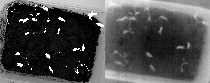
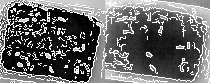
added edge brightening to pre-alignment steps. Alignment seems to work ok! But needs parameter adjustement for different test images. Think need box images for further meaningful progress.

diff --git a/image_preprocessing/preprocessor_functions.py b/image_preprocessing/preprocessor_functions.py
@@ -201,6 +201,7 @@ def downsample_resolution(origRef, origTest):
 
 def prep_images_for_align(origRef, origTest,
                           filterGreen=True, highlightGreen=True,
+                          edgeHighlight=True,
                           sharpenIR=True):
 
     '''Bundles all the transformations to apply to BGR (origRef), and IR (origTest)
@@ -215,20 +216,27 @@ def prep_images_for_align(origRef, origTest,
     sharpenIR: bool. If true, will sharpen origTest prior to alignment
     '''
 
+    # downsample higher res img to low res one
     # if try the other way around ("upsample"), ORB matching points are
-    # completely wrong).
+    # completely wrong).
     imgRef, imgTest = downsample_resolution(origRef.copy(), origTest.copy())
 
+    if sharpenIR:
+        print('sharpening IR...')
+        imgSharp = unsharp_mask(imgTest, kernel_size=(5, 5), sigma=1.0,
+                                amount=1.0, threshold=0)
+        # show_pics([imgTest, imgSharp])
+        imgTest = imgSharp
 
     if highlightGreen:
         print('highlighting BGR to make green real bright...')
         greenLwr = np.array([30, 80, 50])
         greenUpr = np.array([50, 255, 200])
-        highlight = (255, 255, 255)
+        highlight = (200, 200, 200)
         imgRef = hsv_set_to(imgRef, greenLwr, greenUpr, highlight)
 
     # filter BGR image to only keep the plants, (to be beneficial, assumes
-    # plants are lighter than background in the IR image)
+    # plants are lighter than background in the IR image)
     if filterGreen:
         print('filtering BGR to only keep green...')
         # hsv format green colour range
@@ -239,28 +247,46 @@ def prep_images_for_align(origRef, origTest,
         greenUpr = np.array([50, 255, 200])
         imgRef = hsv_filter(imgRef, greenLwr, greenUpr)
 
-    if sharpenIR:
-        print('sharpening IR...')
-        imgSharp = unsharp_mask(imgTest, kernel_size=(5, 5), sigma=1.0,
-                                amount=1.0, threshold=0)
-        # show_pics([imgTest, imgSharp])
-        imgTest = imgSharp
+    # convert both to greyscale
+    imgRef = cv2.cvtColor(imgRef, cv2.COLOR_BGR2GRAY)
+    imgTest = cv2.cvtColor(imgTest, cv2.COLOR_BGR2GRAY)
 
-    # convert both to black and white
-    imgRef= cv2.cvtColor(imgRef, cv2.COLOR_BGR2GRAY)
-    imgTest= cv2.cvtColor(imgTest, cv2.COLOR_BGR2GRAY)
+
+    if edgeHighlight:
+        # edge detection in both images
+        # Otsu's method for automatic thresholding image
+        upr, _ = cv2.threshold(imgRef, 0, 255,
+                               cv2.THRESH_BINARY + cv2.THRESH_OTSU)
+        lwr = 0.75 * upr
+        edgesRef = cv2.Canny(imgRef, lwr, upr)
+        imgRef[edgesRef > 0] = 255
+        #imgRef = edgesRef
+
+        upr, _ = cv2.threshold(imgTest, 0, 255,
+                               cv2.THRESH_BINARY + cv2.THRESH_OTSU)
+        lwr = 0.5 * upr
+        edgesTest = cv2.Canny(imgTest, lwr, upr)
+        imgTest[edgesTest > 0] = 255
+        #imgTest = edgesTest
+
+    # get rid of everything not green or edge in BGR img
+    # imgRef[imgRef < 255] = 0
 
     return imgRef, imgTest
 
 
-def ecc_align(imgRef, imgTest, warpMode,
+def ecc_align(imgRef, imgTest, origIR,
+              warpMode,
               numIterations=5000,
               terminationEps=1e-8):
     '''
     align imgTest to imgRef. these should be greyscale cv2 images, (i.e. 1
-    channel), which have been pre-prepeared for alignment already).
+    channel), which have been pre-prepeared for alignment already by
+    prep_images_for_align() ). These will be used to find the transformation
+    matrix H. (Will try to warp imgTest onto imgRef.)
 
-    Will try to warp imgTest onto imgRef.
+    origIR is the original (unprepared) IR image. This will be transformed by
+    H to give the aligned image.
 
     warpMode: "AFFINE" or "HOMOGRAPHY". Affine motion model, allows
     translation, rotation, shear. Homography motion model also allows some 3d
@@ -298,22 +324,21 @@ def ecc_align(imgRef, imgTest, warpMode,
               'WarpMatrix'))
         pass
 
-
     # apply the warp matrix to the test image
+    toAlign = cv2.cvtColor(origIR, cv2.COLOR_BGR2GRAY)
     sz = imgRef.shape
-
     if warpMode == 'AFFINE':
-        imgAligned = cv2.warpAffine(imgTest, warpMatrix, (sz[1], sz[0]),
+        imgAligned = cv2.warpAffine(toAlign, warpMatrix, (sz[1], sz[0]),
                                     flags=cv2.INTER_LINEAR +
                                     cv2.WARP_INVERSE_MAP)
     if warpMode == 'HOMOGRAPHY':
-        imgAligned = cv2.warpPerspective(imgTest, warpMatrix, (sz[1], sz[0]),
+        imgAligned = cv2.warpPerspective(toAlign, warpMatrix, (sz[1], sz[0]),
                                          flags=cv2.INTER_LINEAR +
                                          cv2.WARP_INVERSE_MAP)
 
     return {'alignedImg': imgAligned}
 
-def feature_align(imgRef, imgTest,
+def feature_align(imgRef, imgTest, origIR,
                   maxFeatures=1000, keepFraction=0.2,
                   DEBUG=True):
 
@@ -390,10 +415,12 @@ def feature_align(imgRef, imgTest,
     h, w = imgRef.shape[:2]
     try:
         H, mask = cv2.findHomography(ptsB, ptsA, method=cv2.RANSAC)
-        alignedImg = cv2.warpPerspective(imgTest, H, (w, h))
+        toAlign = cv2.cvtColor(origIR, cv2.COLOR_BGR2GRAY)  # needs 1 channel
+        alignedImg = cv2.warpPerspective(toAlign, H, (w, h))
     except cv2.error:
         print('WARNING: ORB failed, just transforming with identity matrix')
-        alignedImg = cv2.warpPerspective(imgTest, np.eye(3), (w, h))
+        toAlign = cv2.cvtColor(origIR, cv2.COLOR_BGR2GRAY)  # needs 1 channel
+        alignedImg = cv2.warpPerspective(toAlign, np.eye(3), (w, h))
 
     out = {'alignedImg': alignedImg,
            'testImgFeatures': imgFeatures,
@@ -434,6 +461,7 @@ def make_light_inRange_mask(img):
 
     return [inv_mask_b, mask_sanity]
 
+
 def hsv_set_to(bgr_img, lwr, upr, BGRSet):
     '''
     filter BGR image to get pixels between lwr, and upr in hsv color scheme
@@ -445,6 +473,7 @@ def hsv_set_to(bgr_img, lwr, upr, BGRSet):
     res = bgr_img.copy()
     res[mask > 0] = BGRSet
     return res
+
 
 def hsv_filter(bgr_img, lwr, upr):
     '''
@@ -483,12 +512,12 @@ def make_edge_mask(img):
     # edge detection
     blurred = cv2.GaussianBlur(gray, (11, 11), 0)
     edges = cv2.Canny(blurred, 40, 100)
-    #show_pics([edges])
+    # show_pics([edges])
 
     # broaden edges - make contiguous lines
     thick_edges = cv2.GaussianBlur(edges, (15, 15), 0)
     thick_edges[thick_edges > 0] = 255
-    #show_pics([thick_edges])
+    # show_pics([thick_edges])
 
     # # convert edges to contours - just use edges!
     # _, contours, _ = cv2.findContours(thick_edges,
@@ -591,8 +620,8 @@ def get_connected_components(imgs, key_order):
         for i, filename in enumerate(key_order[prefix]):
             mask = imgs[filename][1]
 
-            n_labels, labels, stats, centroids =\
-             cv2.connectedComponentsWithStats(mask, connectivity=8)
+            n_labels, labels, stats, centroids = \
+            cv2.connectedComponentsWithStats(mask, connectivity=8)
 
             # if first img in current timeseries, generate colors
             if (i == 0):

diff --git a/image_preprocessing/register_dummy_imgs.py b/image_preprocessing/register_dummy_imgs.py
@@ -12,6 +12,7 @@ for file in ['RGB5_2021-04-08T11-09-51_cropped.jpg']: #os.listdir(playingd):
         continue
 
     fileRoot = file[3:-3]
+    outstr = file[3:]
 
     # load the RGB, and IR images
     RGBPath = playingd + file
@@ -19,13 +20,13 @@ for file in ['RGB5_2021-04-08T11-09-51_cropped.jpg']: #os.listdir(playingd):
 
     origRef = cv2.imread(RGBPath)
     origTest = cv2.imread(IRPath)
-    outstr = file[3:]
 
     # prep images for alignment: get same resolution, filter for green,
     # sharpenIR up etc
     imgRef, imgTest = prep_images_for_align(origRef, origTest,
                                             filterGreen=False,
                                             highlightGreen=True,
+                                            edgeHighlight=True,
                                             sharpenIR=False)
 
     p_imgRef, p_imgTest = pad_image_height([imgRef, imgTest])
@@ -33,7 +34,7 @@ for file in ['RGB5_2021-04-08T11-09-51_cropped.jpg']: #os.listdir(playingd):
     cv2.imwrite(f'{playingd}/{outstr}_alignment_prepped.JPG', outPic)
 
     # ORB algorithm for feature alignment
-    out = feature_align(imgRef, imgTest,
+    out = feature_align(imgRef, imgTest, origTest,
                         maxFeatures=3000, keepFraction=0.3,
                         DEBUG=False)
 
@@ -43,9 +44,13 @@ for file in ['RGB5_2021-04-08T11-09-51_cropped.jpg']: #os.listdir(playingd):
     alignedImg = out['alignedImg']
 
     # ECC algorithm for alignment
-    out = ecc_align(imgRef, imgTest, 'HOMOGRAPHY') # ' AFFINE' or 'HOMOGRAPHY')
+    print(imgTest.shape)
+    print(origTest.shape)
+
+    out = ecc_align(imgRef, imgTest, origTest,
+                     'AFFINE') # ' AFFINE' or 'HOMOGRAPHY')
     eccImg = out['alignedImg']
-    # show_pics([imgRef, imgTest, eccImg])
+    #show_pics([imgRef, imgTest, eccImg])
 
 
     # Make combined output images

diff --git a/image_preprocessing/readme.md b/image_preprocessing/readme.md
@@ -11,7 +11,13 @@ working well)
 - finalise segment size parameters
 - finalise resizing (for input to araDEEPopsis) parameters
 
-- thermal / colour image registration.
+- thermal / colour image registration:
+  - transfer alignment functionality from `register_dummy_imgs.py` to `preprocessor.py`
+  - optimise pre-alignment image processing steps & parameters, choice of alignment function,
+  and alignment function parameters for real plant images from the box.
+  - add image alignment output debugging pictures to the Rshiny app.
+
+
 - colour normalisation
 - (?thermal normalisation?)
 - calculate size / scale of pixels in final image
